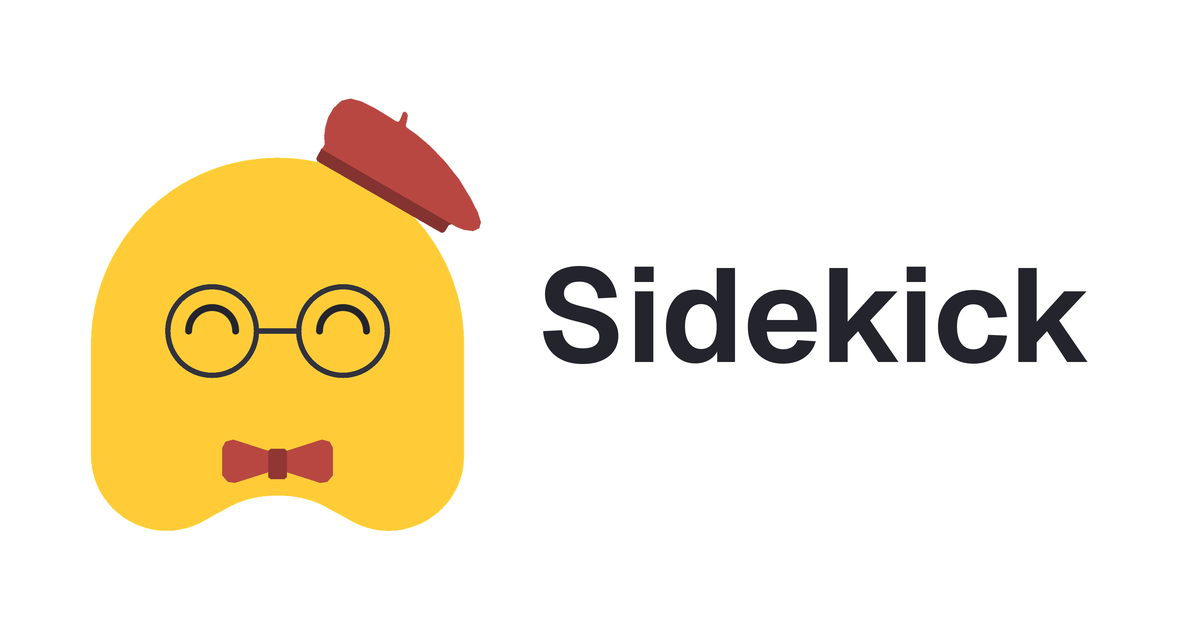
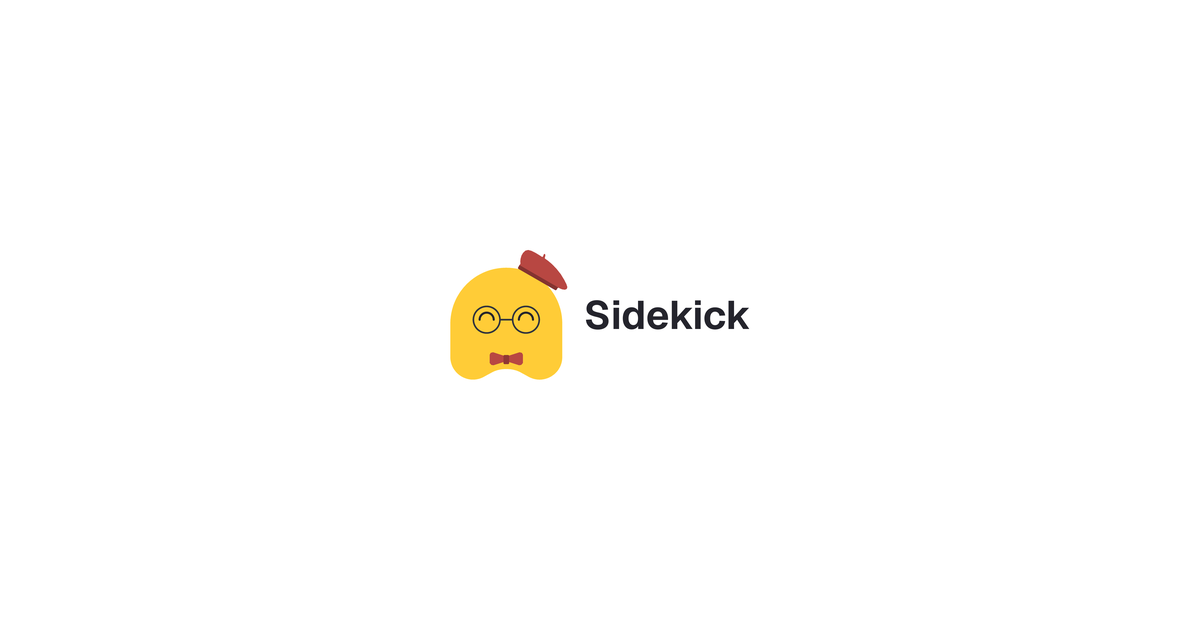
Center OG artwork at thirty percent scale with generous whitespace

Changed region(s): [[0.0617, 0.1508, 0.925, 0.8444]]

diff --git a/tests/composition.test.ts b/tests/composition.test.ts
@@ -7,5 +7,7 @@ test('OG scene uses requested actual character, outfits and expression', () => {
 test('composition roundtrip preserves avatar and framing independently',()=>{ const composition={...defaultComposition(),text:'두 줄\nSidekick',width:1080,height:1080}; const avatar=ogAvatarScene(); assert.deepEqual(parseCompositionDocument(serializeComposition(composition,avatar)),{composition,avatar}); });
 test('previous scene and bare design remain importable',()=>{ for(const data of [ogAvatarScene(),createDesign()]){const doc=parseCompositionDocument(JSON.stringify(data));assert.deepEqual(doc.composition,defaultComposition());assert.equal(doc.avatar.design.version,7);} });
 test('strict validation bounds pixel allocation and rejects malformed values',()=>{ for(const patch of [{width:4096,height:4096},{width:320.5},{characterX:NaN},{font:'url(evil)'},{background:'red'},{text:'a'.repeat(201)},{surprise:1}])assert.throws(()=>parseComposition({...defaultComposition(),...patch}));assert.throws(()=>parseCompositionDocument(' '.repeat(131073)));assert.throws(()=>parseCompositionDocument(JSON.stringify({compositionVersion:2}))); });
-test('compositor uses exact full canvas size and image aspect ratio',()=>{ const calls:unknown[][]=[];const ctx={fillRect:(...a:unknown[])=>calls.push(['background',...a]),drawImage:(...a:unknown[])=>calls.push(['image',...a]),fillText:(...a:unknown[])=>calls.push(['text',...a])};const canvas={width:0,height:0,getContext:()=>ctx} as unknown as HTMLCanvasElement;const image={width:200,height:400} as unknown as HTMLImageElement;paintComposition(canvas,defaultComposition(),image);assert.equal(canvas.width,1200);assert.equal(canvas.height,630);assert.deepEqual(calls[0],['background',0,0,1200,630]);const draw=calls[1]!; assert.ok(Math.abs(Number(draw[4])-219)<0.01); assert.ok(Math.abs(Number(draw[5])-438)<0.01); const text=calls[2]!;assert.equal(text[1],'Sidekick');assert.ok(Math.abs(Number(text[2])-536)<0.01);assert.equal(text[3],315); });
+test('compositor uses exact full canvas size and image aspect ratio',()=>{ const calls:unknown[][]=[];const ctx={fillRect:(...a:unknown[])=>calls.push(['background',...a]),drawImage:(...a:unknown[])=>calls.push(['image',...a]),fillText:(...a:unknown[])=>calls.push(['text',...a])};const canvas={width:0,height:0,getContext:()=>ctx} as unknown as HTMLCanvasElement;const image={width:200,height:400} as unknown as HTMLImageElement;paintComposition(canvas,defaultComposition(),image);assert.equal(canvas.width,1200);assert.equal(canvas.height,630);assert.deepEqual(calls[0],['background',0,0,1200,630]);const draw=calls[1]!; assert.ok(Math.abs(Number(draw[4])-65.7)<0.01); assert.ok(Math.abs(Number(draw[5])-131.4)<0.01); const text=calls[2]!;assert.equal(text[1],'Sidekick');assert.ok(Math.abs(Number(text[2])-583.8)<0.01);assert.equal(text[3],315); });
 test('both entry pages expose canonical social metadata without script execution',()=>{for(const f of ['index.html','playground/index.html']){const html=readFileSync(f,'utf8');assert.match(html,/og:image" content="https:\/\/sidekick.hananakick.cc\/og-sidekick.png/);assert.match(html,/twitter:card" content="summary_large_image/);assert.match(html,/og:image:width" content="1200/);assert.match(html,/og:image:height" content="630/);}});
+
+test('OG composition keeps the1200×630 canvas and scales artwork to30percent',()=>{const p=defaultComposition();assert.equal(p.width,1200);assert.equal(p.height,630);assert.ok(Math.abs(p.characterHeight-438/630*100*.3)<1e-8);assert.equal(p.fontSize,132*.3);assert.equal(p.characterY,50);assert.equal(p.textY,50);});

diff --git a/playground/composition.ts b/playground/composition.ts
@@ -3,7 +3,7 @@ import { createScene, migrateScene } from '../src/core/scene.js';
 import type { SidekickScene } from '../src/core/scene.js';
 export interface Composition { width: number; height: number; background: string; characterX: number; characterY: number; characterHeight: number; text: string; textX: number; textY: number; fontSize: number; textColor: string; font: 'sans' | 'serif' | 'mono' }
 export const FONT_FAMILIES = { sans: '"Geist Variable", Arial, sans-serif', serif: 'Georgia, serif', mono: 'monospace' };
-export const defaultComposition = (): Composition => ({ width: 1200, height: 630, background: '#ffffff', characterX: 23.8333333333, characterY: 50, characterHeight: 69.5238095238, text: 'Sidekick', textX: 44.6666666667, textY: 50, fontSize: 132, textColor: '#24242c', font: 'sans' });
+export const defaultComposition = (): Composition => ({ width: 1200, height: 630, background: '#ffffff', characterX: 42.4, characterY: 50, characterHeight: 20.8571428571, text: 'Sidekick', textX: 48.65, textY: 50, fontSize: 39.6, textColor: '#24242c', font: 'sans' });
 export function parseComposition(input: unknown): Composition {
   if (!input || typeof input !== 'object' || Array.isArray(input)) throw new Error('장면 배치 객체가 필요합니다.');
   const p = input as Record<string, unknown>, defaults = defaultComposition();
